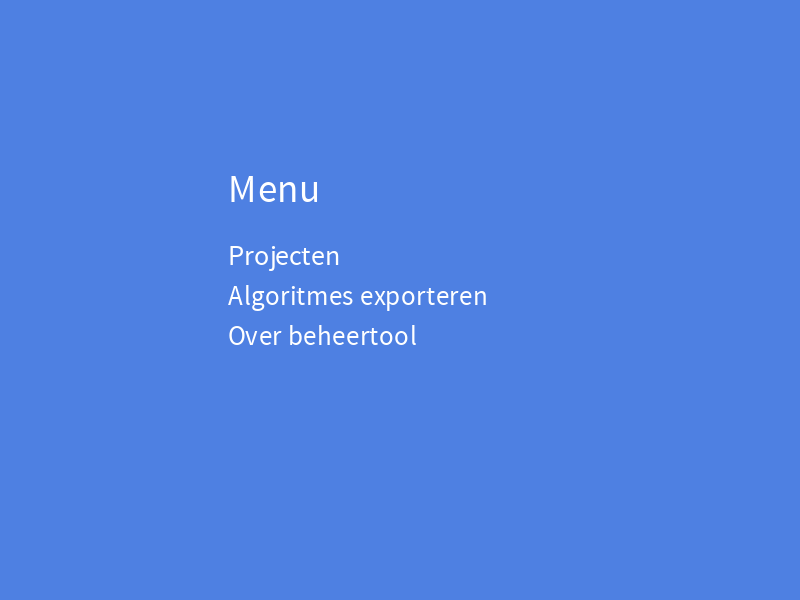
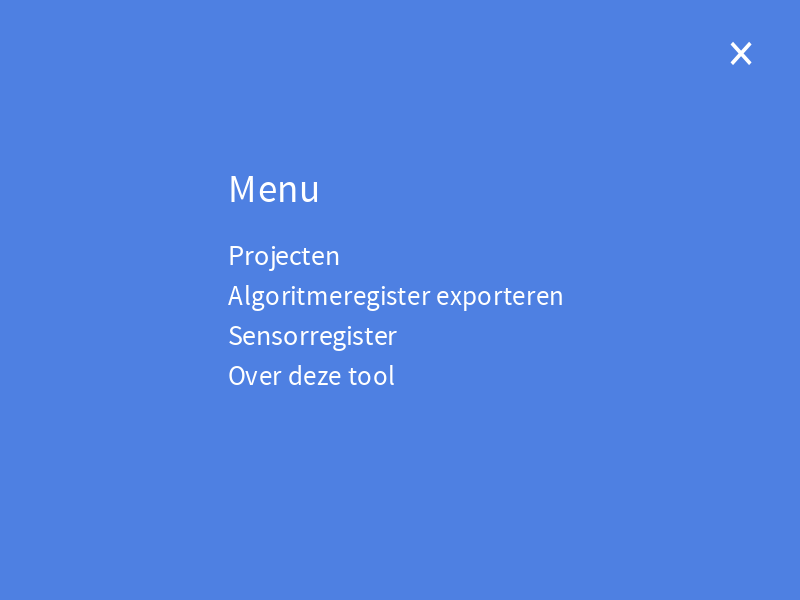
add sensorregister

diff --git a/index.md b/index.md
@@ -41,6 +41,9 @@ Principes die we daarbij hanteren:
 ![Screenshot: Algoritmes exporteren als Excel voor aanlevering naar nationaal register](assets/img/Algoritmes%20exporteren.png)
 *Algoritmes exporteren als Excel voor aanlevering naar nationaal register*
 
+![Screenshot: Sensoren beheren voor gebruik in projecten](assets/img/Sensoren.png)
+*Sensoren beheren voor gebruik in projecten*
+
 ## Open Samenwerking
 
 We nemen het voortouw in ontwerp en ontwikkeling. De beheertool is momenteel in [Alpha](https://en.wikipedia.org/wiki/Software_release_life_cycle#Alpha). Door middel van gebruik in de praktijk wil de Provincie de software iteratief doorontwikkelen en robuuster maken. We werken open en stellen resultaten zoals ontwerp en code open ter beschikking. Graag trekken we samen op met andere publieke organisaties, zowel met organisaties die onze *PowerApps* implementatie mee willen testen en doorontwikkelen, als met organisaties die op een andere *stack* een eigen implementatie maken of hebben gemaakt - om op organisatorisch, procesmatig en op conceptniveau ideeën en ervaringen uit te wisselen. Neem daarover dus vooral contact op.
